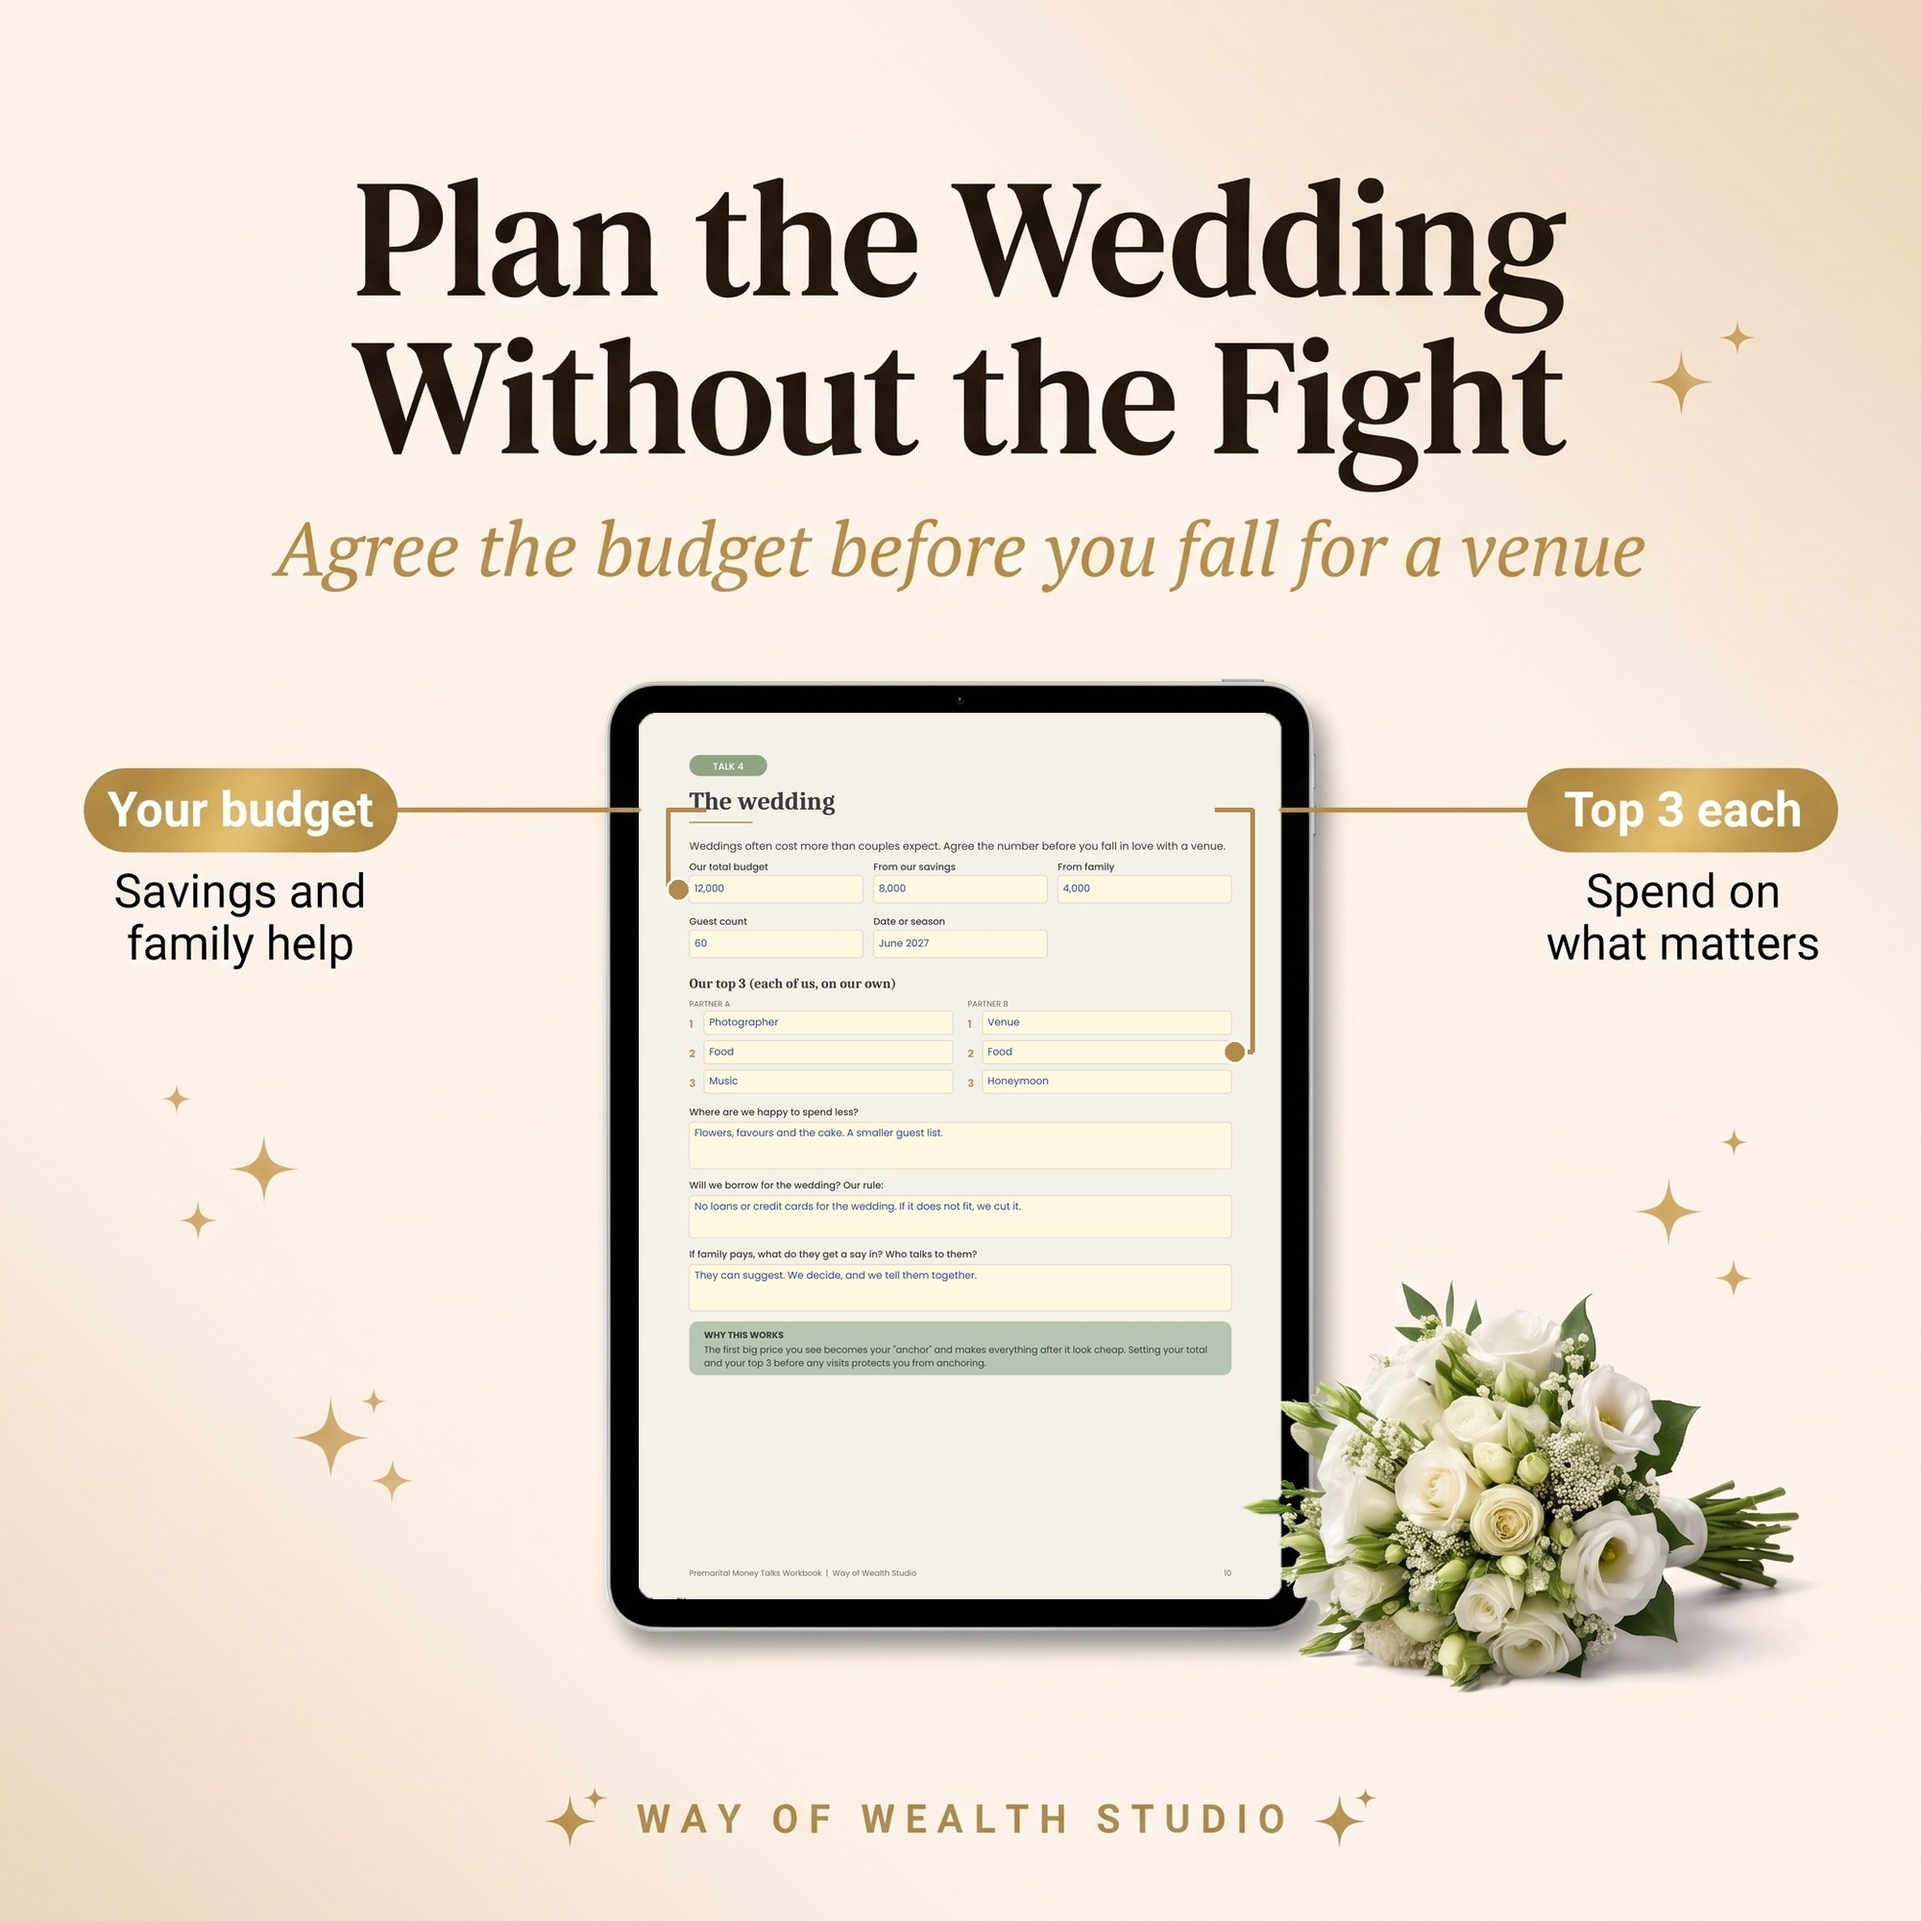
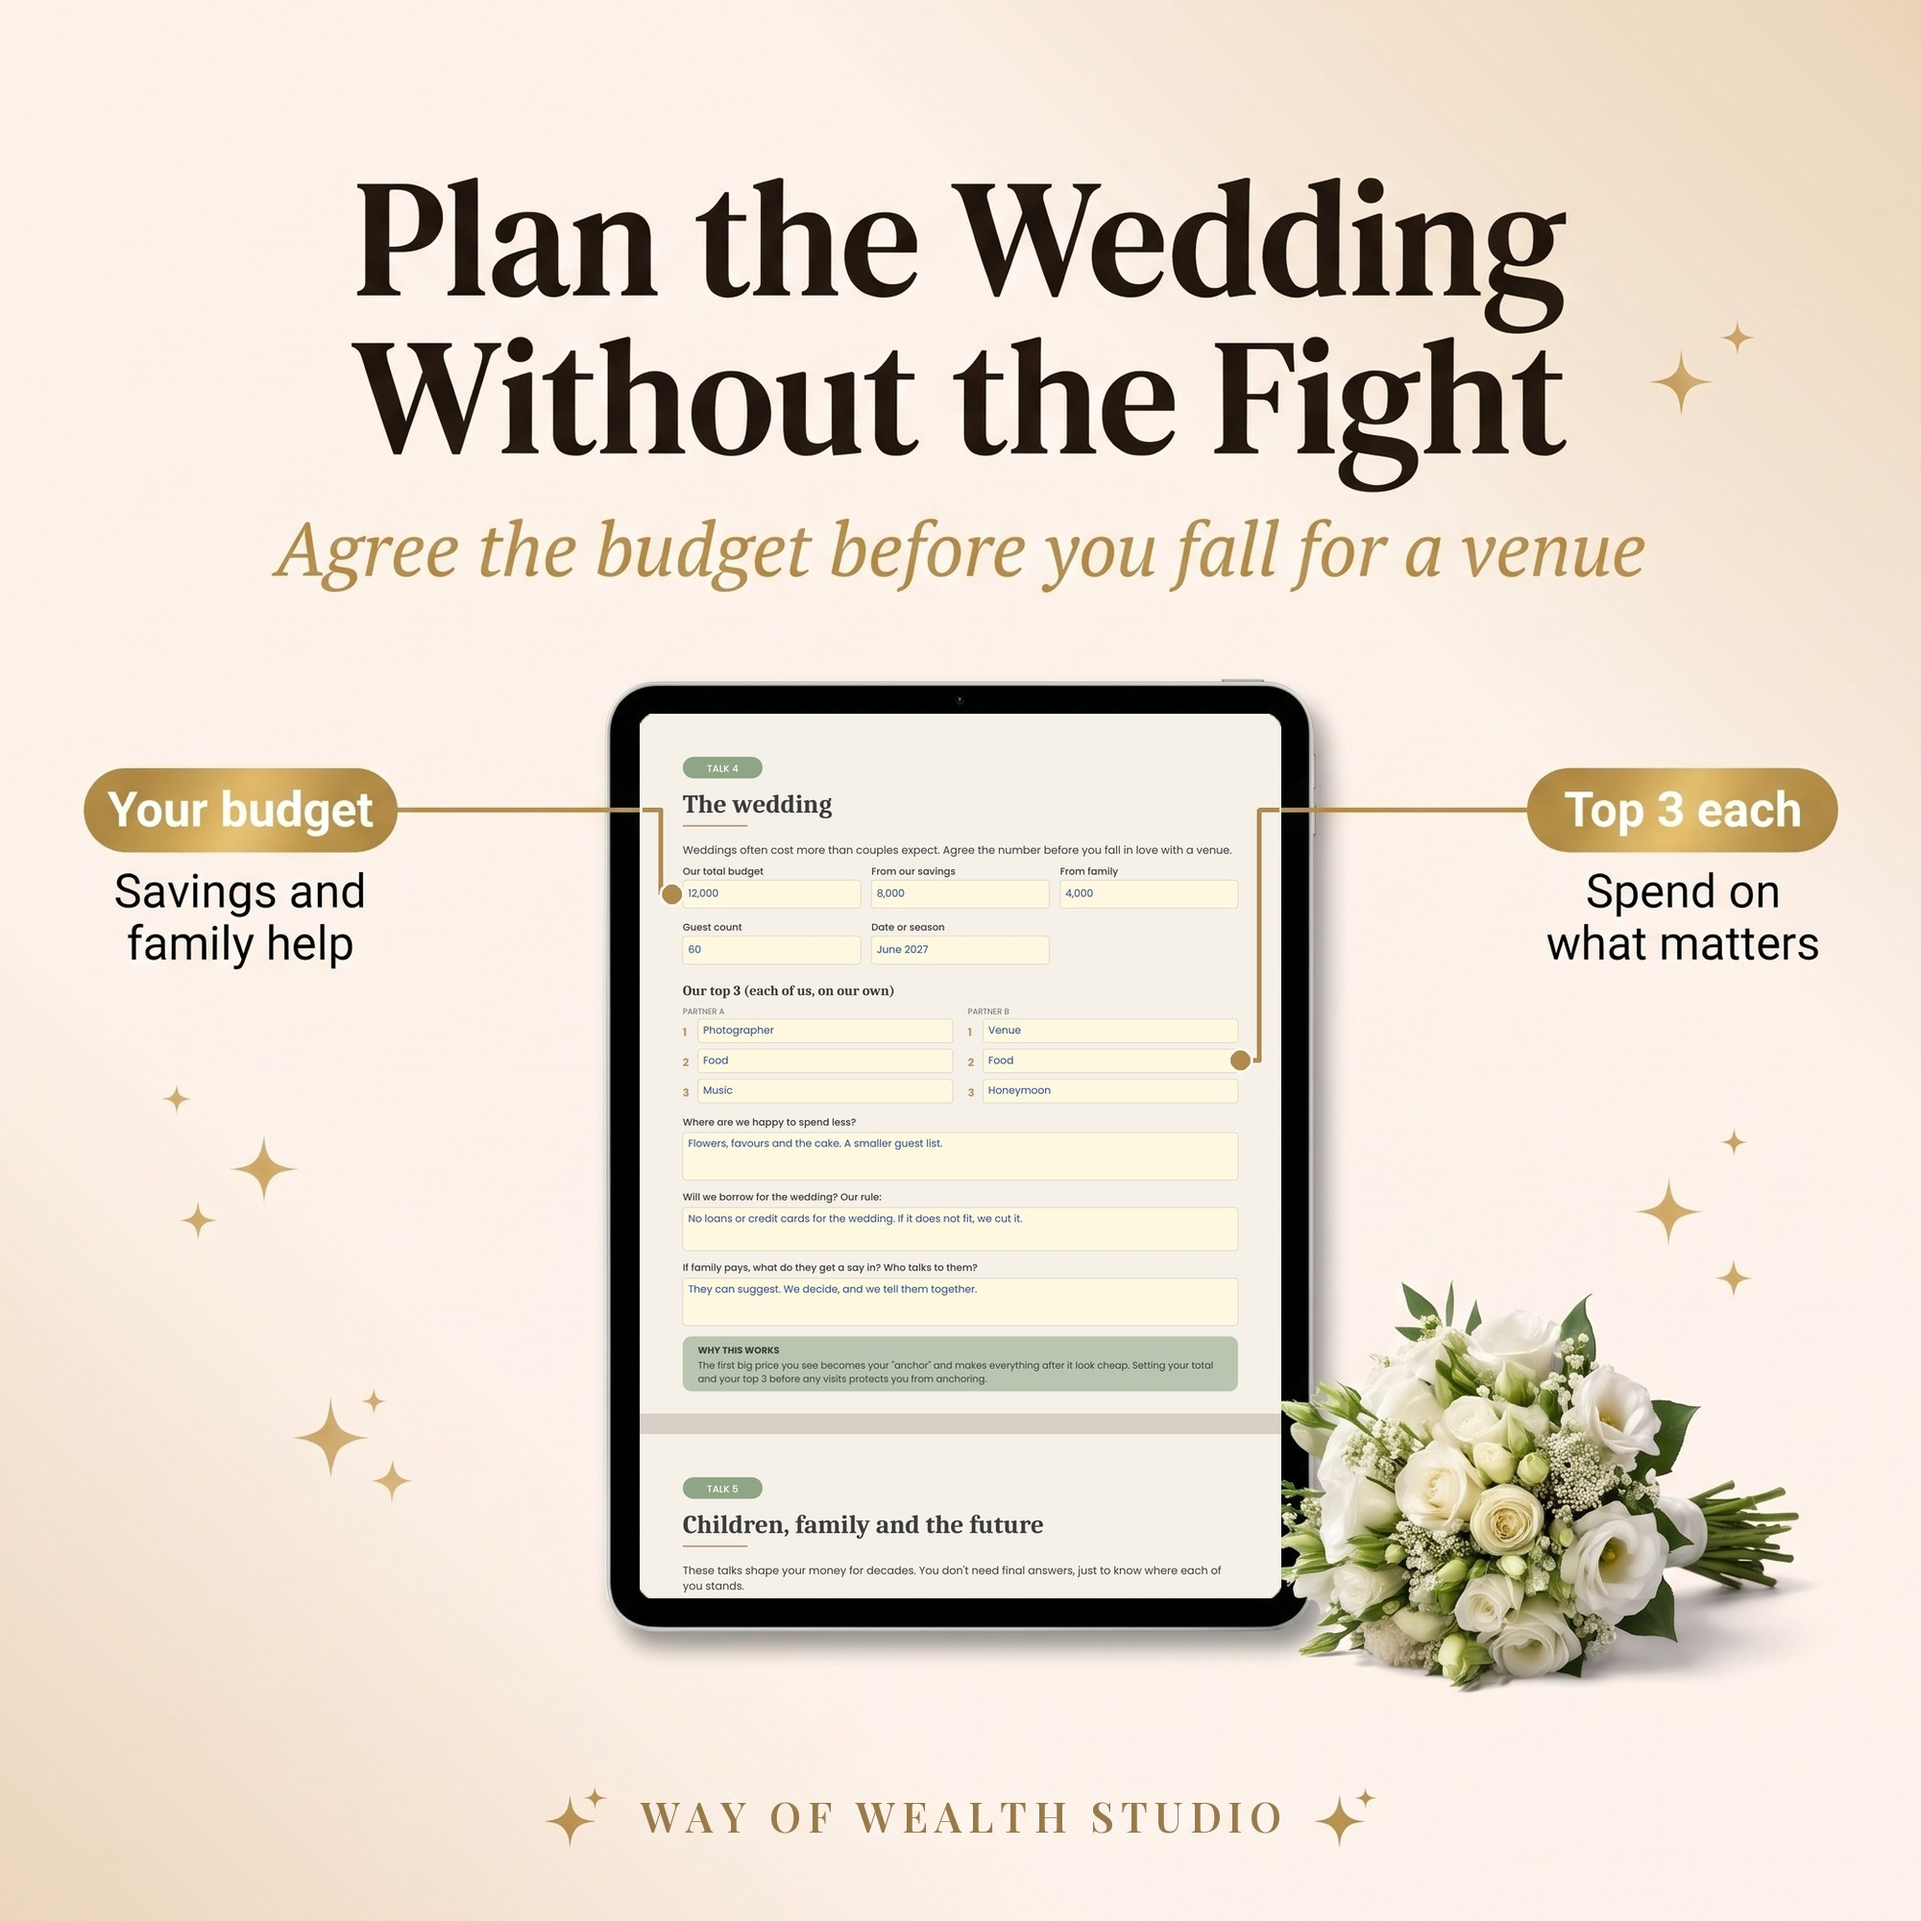
etsy: Premarital rework round 3 - screens, footer, cover subtitle, callout copy (no new AI images)
Claude-Session: https://claude.ai/code/session_01BnV5D4fo5Z3f7V6zvv653b

diff --git a/etsy/2026-11-10-premarital-money-talks/src/nb_comp3.py b/etsy/2026-11-10-premarital-money-talks/src/nb_comp3.py
@@ -1,0 +1,85 @@
+"""Round-3 compositing: clean rounded-rect screen masks, screens filled like a PDF viewer (page content + top of next page), callouts on page targets."""
+import sys
+import numpy as np
+from PIL import Image, ImageDraw, ImageFilter
+from scipy import ndimage
+HI='/home/claude/work/premarital/hi3/'
+PX=200/72; PW=round(595.2756*PX)
+GOLD=(176,138,78); GAP=(214,208,198)
+def page(n): return Image.open(f'{HI}p-{n:02d}.png').convert('RGB')
+def screens(img):
+    a=np.array(img).astype(int)
+    g=(a[...,1]>150)&(a[...,1]-a[...,0]>70)&(a[...,1]-a[...,2]>70)
+    lab,n=ndimage.label(g); out=[]
+    for i,sl in enumerate(ndimage.find_objects(lab)):
+        m=lab==i+1
+        if m.sum()<20000: continue
+        r=np.zeros_like(m); c=np.zeros_like(m)
+        for y in np.where(m.any(1))[0]:
+            xs=np.where(m[y])[0]; r[y,xs.min():xs.max()+1]=True
+        for x in np.where(m.any(0))[0]:
+            ys=np.where(m[:,x])[0]; c[ys.min():ys.max()+1,x]=True
+        m=r&c; ys,xs=np.where(m)
+        x0,y0,x1,y1=xs.min(),ys.min(),xs.max()+1,ys.max()+1
+        miss=((x1-x0)*(y1-y0)-m.sum())/4; rad=int(np.sqrt(max(miss,1)/(1-np.pi/4)))
+        out.append((x0,y0,x1,y1,m,rad))
+    return sorted(out,key=lambda c:c[0])
+def viewer(w,h,parts,mode='stack'):
+    """canvas w x h (screen px). parts: [(page, ycut_pt)] stacked with a gap, scaled to the screen width.
+    mode 'fit': first part scaled to width, centred vertically with even page-colour margins."""
+    r=w/PW; c=Image.new('RGB',(w,h),GAP)
+    if mode=='fit':
+        p,yc=parts[0]; im=page(p).crop((0,0,PW,int(yc*PX))); im=im.resize((w,round(im.height*r)),Image.LANCZOS)
+        c=Image.new('RGB',(w,h),im.getpixel((5,5))); oy=(h-im.height)//2; c.paste(im,(0,oy)); return c,(r,0,oy)
+    y=0
+    for p,yc in parts:
+        im=page(p); im=im.crop((0,0,PW,int(yc*PX) if yc else im.height)); im=im.resize((w,round(im.height*r)),Image.LANCZOS)
+        c.paste(im,(0,y)); y+=im.height+max(6,int(18*r*3))
+        if y>=h: break
+    return c,(r,0,0)
+def build(raw,out,assign,targets=None,fix_bezel=False,line_w=5,dot_r=13):
+    img=Image.open(raw).convert('RGB'); R=np.array(img).astype(int); cs=screens(img)
+    assert len(cs)==len(assign),(raw,len(cs))
+    for (x0,y0,x1,y1,m,rad),(parts,mode) in zip(cs,assign):
+        if fix_bezel:
+            ring=ndimage.binary_dilation(m,iterations=45)&~ndimage.binary_dilation(m,iterations=2)
+            a=np.array(img); lum=a.astype(int).sum(-1)/3; a[ring&(lum<125)]=(18,18,20); img=Image.fromarray(a)
+        e=2; X0,Y0,X1,Y1=x0-e,y0-e,x1+e,y1+e; w,h=X1-X0,Y1-Y0
+        if mode=='phone':
+            pad=int(h*.07); shot,(r,ox,oy)=viewer(w,h-pad,parts,'fit'); s2=Image.new('RGB',(w,h),shot.getpixel((2,2))); s2.paste(shot,(0,pad)); shot=s2; oy+=pad
+        else:
+            shot,(r,ox,oy)=viewer(w,h,parts,mode)
+        mk=Image.new('L',(w,h),0); ImageDraw.Draw(mk).rounded_rectangle((0,0,w-1,h-1),max(rad,4),fill=255)
+        md=ndimage.binary_dilation(m,iterations=3)[Y0:Y1,X0:X1]
+        mk=Image.fromarray(np.maximum(np.array(mk),(md*255).astype('uint8'))).filter(ImageFilter.GaussianBlur(0.7))
+        img.paste(shot,(X0,Y0),mk)
+        if targets:
+            d=ImageDraw.Draw(img)
+            isg=lambda col:(R[:,col,0]>140)&(R[:,col,1]>100)&(R[:,col,2]<130)&(R[:,col,0]-R[:,col,2]>50)
+            for side,tx,ty,mx_pt in targets:
+                sgn=-1 if side=='L' else 1; base=x0 if side=='L' else x1
+                gm=isg(base+sgn*25)&isg(base+sgn*40)&isg(base+sgn*55)
+                gy=np.where(gm)[0]; gy=gy[(gy>y0)&(gy<y1)]
+                run=[gy[0]]
+                for v in gy[1:]:
+                    if v-run[-1]>2: break
+                    run.append(v)
+                ey=int(np.median(run))
+                sx=X0 if side=='L' else X1
+                P=lambda X,Y:(X0+ox+X*PX*r, Y0+oy+Y*PX*r)
+                mx,_=P(mx_pt,0); px,py=P(tx,ty)
+                pts=[(sx-3*sgn,ey),(mx,ey),(mx,py),(px,py)]
+                d.line(pts,fill=GOLD,width=line_w,joint='curve')
+                d.ellipse([px-dot_r,py-dot_r,px+dot_r,py+dot_r],fill=GOLD,outline=(255,250,240),width=3)
+    img=img.resize((2000,2000),Image.LANCZOS); img.save(out,quality=90); print(out,'screens',len(cs))
+JOBS={
+ '01':dict(assign=[([(1,None)],'stack'),([(9,540)],'phone')]),
+ '03':dict(assign=[([(8,600),(9,None)],'stack')],targets=[('L',30,245,20),('R',558,405,575)]),
+ '04':dict(assign=[([(9,540),(10,None)],'stack')],targets=[('L',30,272,20),('R',558,456,575)]),
+ '05':dict(assign=[([(10,650),(11,None)],'stack')],targets=[('L',30,168,20),('R',558,322,575)]),
+ '06':dict(assign=[([(13,None)],'stack'),([(14,None)],'stack')]),
+ '07':dict(assign=[([(16,690)],'fit')]),
+ '08':dict(assign=[([(3,500),(4,None)],'stack')],fix_bezel=True),
+}
+if __name__=='__main__':
+    for k in sys.argv[1:] or JOBS: build(f'raw/s{k}.png',f'photos/{k}.jpg',**JOBS[k])

diff --git a/etsy/2026-11-10-premarital-money-talks/src/nb_post.py b/etsy/2026-11-10-premarital-money-talks/src/nb_post.py
@@ -1,0 +1,76 @@
+"""Round-3 touch-ups on finished photos: serif footer wordmark, subtitle quotes (01), callout text (04)."""
+import numpy as np
+from PIL import Image, ImageDraw, ImageFont
+F='/home/claude/fonts/'
+def paint_out(img,box,band=5):
+    """remove ink inside box: mask = pixels clearly off the local background, inpainted (keeps gradients/light rays)"""
+    import cv2
+    from scipy import ndimage
+    a=np.array(img); x0,y0,x1,y1=box
+    sub=a[y0:y1,x0:x1].astype(int).sum(-1)
+    border=np.concatenate([sub[0],sub[-1],sub[:,0],sub[:,-1]])
+    off=sub<np.median(border)-45
+    m=np.zeros(a.shape[:2],np.uint8); m[y0:y1,x0:x1]=ndimage.binary_dilation(off,iterations=4)*255
+    out=cv2.inpaint(np.ascontiguousarray(a[...,::-1]),m,7,cv2.INPAINT_TELEA)[...,::-1]
+    return Image.fromarray(np.ascontiguousarray(out))
+def _old_paint_out(img,box,band=5):
+    a=np.array(img).astype(float); x0,y0,x1,y1=box
+    L=a[y0:y1,x0-band:x0].mean(1); R=a[y0:y1,x1:x1+band].mean(1)
+    t=np.linspace(0,1,x1-x0)[None,:,None]
+    a[y0:y1,x0:x1]=L[:,None,:]*(1-t)+R[:,None,:]*t
+    return Image.fromarray(a.clip(0,255).astype('uint8'))
+def ink(img,box):
+    a=np.array(img).astype(int)[box[1]:box[3],box[0]:box[2]].reshape(-1,3)
+    lum=a.sum(1); return tuple(int(v) for v in np.median(a[lum<np.percentile(lum,8)],0))
+def tracked(img,text,font,cx,cap_top,width,fill):
+    """draw text centred at cx, cap top at cap_top, letters spread so the run is `width` px wide"""
+    d=ImageDraw.Draw(img); ws=[d.textlength(ch,font=font) for ch in text]
+    gaps=len(text)-1; sp=(width-sum(ws))/gaps
+    bb=font.getbbox('W'); x=cx-width/2
+    for ch,w in zip(text,ws):
+        d.text((x,cap_top-bb[1]),ch,font=font,fill=fill); x+=w+sp
+def cap_font(path,cap):
+    s=cap
+    for _ in range(40):
+        f=ImageFont.truetype(path,s); bb=f.getbbox('H'); h=bb[3]-bb[1]
+        if abs(h-cap)<=0.5: break
+        s=max(4,round(s*cap/h))
+    return f
+P02=Image.open('photos/02.jpg').convert('RGB'); GOLDTXT=ink(P02,(612,1920,1387,1956))
+def footer(k,ytop,ybot):
+    im=Image.open(f'photos/{k}.jpg').convert('RGB')
+    im=paint_out(im,(650,ytop-8,1352,ybot+8))
+    f=cap_font(F+'PF-600-normal.ttf',ybot-ytop)
+    tracked(im,'WAY OF WEALTH STUDIO',f,1000.5,ytop,668,GOLDTXT)
+    return im
+if __name__=='__main__':
+    print('gold',GOLDTXT)
+    im=footer('01',1932,1964)
+    # subtitle with quote marks
+    im.save('photos/01.jpg',quality=90)
+    for k in ('04','05'): footer(k,1877,1909).save(f'photos/{k}.jpg',quality=90)
+
+def subtitle01():
+    im=Image.open('photos/01.jpg').convert('RGB')
+    col=ink(im,(269,481,1730,566))
+    im=paint_out(im,(250,468,1750,578))
+    t='6 money conversations to have before “I do”'
+    d=ImageDraw.Draw(im); s=80
+    while True:
+        f=ImageFont.truetype(F+'PF-400-italic.ttf',s); bb=d.textbbox((0,0),t,font=f)
+        if bb[2]-bb[0]<=1480: break
+        s-=1
+    x=1000-(bb[2]-bb[0])/2-bb[0]; y=481-bb[1]
+    d.text((x,y),t,font=f,fill=col); im.save('photos/01.jpg',quality=90); print('subtitle size',s,col)
+
+def callout04():
+    im=Image.open('photos/04.jpg').convert('RGB')
+    col=ink(im,(1578,907,1885,998))
+    im=paint_out(im,(1560,895,1905,1015))
+    f=ImageFont.truetype('/usr/share/fonts/opentype/inter/Inter-Regular.otf',10)
+    f=cap_font('/usr/share/fonts/opentype/inter/Inter-Regular.otf',36)
+    d=ImageDraw.Draw(im); cx=1731
+    for line,base in (('Set after bills',944),('and savings',998)):
+        bb=d.textbbox((0,0),line,font=f,anchor='ls'); w=bb[2]-bb[0]
+        d.text((cx-w/2,base),line,font=f,fill=col,anchor='ls')
+    im.save('photos/04.jpg',quality=90); print('callout04',col)

diff --git a/etsy/2026-11-10-premarital-money-talks/src/build.py b/etsy/2026-11-10-premarital-money-talks/src/build.py
@@ -54,8 +54,17 @@ SAMPLE = {
  'w_family': 'They can suggest. We decide, and we tell them together.',
  'plan_date_1': 'Sun 3 Jan', 'plan_date_2': 'Sun 10 Jan', 'plan_date_3': 'Sun 17 Jan',
  'plan_date_4': 'Sun 24 Jan', 'plan_date_5': 'Sun 31 Jan', 'plan_date_6': 'Sun 7 Feb',
+ 't1_mem_A': 'Best: my first pay cheque. Worst: a bounced rent payment at 22.',
+ 't1_mem_B': 'Best: saving for a car at 17. Worst: losing a deposit on a flat.',
+ 't5_kids_A': 'Yes, two, in about three years.', 't5_kids_B': 'Yes, one or two. Not before we own a home.',
+ 't5_break_A': 'I would take 9 months. We save a buffer first.', 't5_break_B': 'Happy to go part-time for a year.',
+ 't5_family_A': 'My mum may need help in 10 years. Up to 100 a month is fine.', 't5_family_B': 'None expected. Gifts at birthdays only.',
+ 't5_home_A': 'Renting, saving for a deposit near work.', 't5_home_B': 'Buying a small house, outside the city.',
+ 'md_0_0': 'Jan', 'md_2_0': '250', 'md_3_0': 'Card paid down', 'md_4_0': 'Cook in more',
+ 'md_0_1': 'Feb', 'md_2_1': '300', 'md_3_1': 'Wedding fund 2k', 'md_4_1': 'Cancel 2 apps',
+ 'md_0_2': 'Mar', 'md_2_2': '320', 'md_3_2': 'Card cleared', 'md_4_2': 'Raise savings',
 }
-SAMPLE_CHECKS = {'plan_done_1', 'plan_done_2', 'plan_done_3', 't3_choice_2', 't3_income'}
+SAMPLE_CHECKS = {'plan_done_1', 'plan_done_2', 'plan_done_3', 't3_choice_2', 't3_income', 'md_done_0', 'md_done_1', 'md_done_2'}
 
 
 class Book:

diff --git a/etsy/2026-11-10-premarital-money-talks/README.md b/etsy/2026-11-10-premarital-money-talks/README.md
@@ -13,3 +13,4 @@ Couples Finance. Photos uploaded from photos/ here; zip and video saved in Drive
 - Video rebuilt: fillable PDF being typed in (fair split, then the Money Agreement), 14.2 s (`src/video_inuse.py`).
 - Product unchanged (18 money-only pages already deeper on money than the general premarital bestsellers); description updated (`src/copy.json`).
 - Round 2 (13 Nov): screens re-composited with filled masks (no green fringe), pages fitted inside the screens, callout dots redrawn onto the right boxes (`src/nb_comp2.py`); sample answers on the banking, wedding and plan pages; 50/50 vs by-income and joint/separate/hybrid are now radio groups in the fillable PDF (zip rebuilt); video recropped.
+- Round 3 (13 Nov, no new AI images): clean rounded screen masks; screens show the page content plus the top of the next page like a PDF viewer (`src/nb_comp3.py`); more sample answers (Talk 1, Talk 5, money dates); serif footer wordmark on every photo, quote marks on the cover subtitle, photo 04 callout text corrected to "Set after bills and savings" (`src/nb_post.py`).
